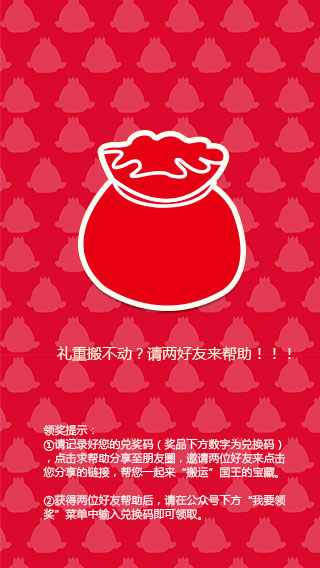
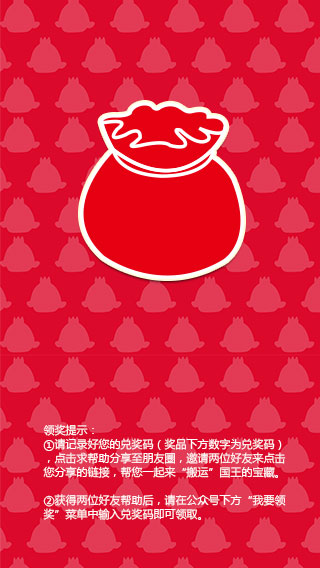
sync

diff --git a/src/award/layer/AwardFansLayer.js b/src/award/layer/AwardFansLayer.js
@@ -2,6 +2,8 @@ var AwardFansLayer = cc.Layer.extend({
 
 	_awardLabel : null,
 	_start : false,
+	_awardSprite:null,
+	_shareUrl:null,
 	
 	ctor:function () {
 		this._super();
@@ -12,7 +14,7 @@ var AwardFansLayer = cc.Layer.extend({
 			anchorX: 0.5,
 			anchorY: 0.5,
 			x : cc.winSize.width/2,
-			y : cc.winSize.height - 200
+			y : cc.winSize.height - 175
 		});
 		this.addChild(this._awardLabel);
 		this._awardLabel.runAction(cc.blink(2, 10).repeatForever());
@@ -25,9 +27,8 @@ var AwardFansLayer = cc.Layer.extend({
 					return;
 				}
 				self._start = true;
-				self.initItem();
-				self.itemAnimation();
-				return;
+				self._awardLabel.removeFromParent(true);
+				self.addAward();
 				var callback = function (response) { 
 					cc.log(response);
 					var jsonData = JSON.parse(response);              
@@ -36,50 +37,85 @@ var AwardFansLayer = cc.Layer.extend({
 							alert(jsonData.desc);
 							return;
 						} 
-						self._awardLabel.removeFromParent(true);
-						self.showAward(jsonData.award.desc,jsonData.award.code);
+						this._shareUrl = jsonData.award.helpUrl;
+						self.showAward(jsonData.award);
 					}
 				};
 				var errorcallback = function (response) {         
 					alert(response);  
 				};
 				var params = "openid=" + CONFIG.OPENID;
-
-				// 提交分数
 				request(CONFIG.SERVER_URL + CONFIG.SERVER_ACTION_AWARD, params, true, callback, errorcallback);
 			}
 		}, this._awardLabel);
 	},
 	
-	showAward :function(desc,code) {
-		var tips = new cc.LabelTTF(desc, "微软雅黑", 20, cc.size(300, 80), cc.TEXT_ALIGNMENT_CENTER);
+	showAward :function(award) {
+		this._awardSprite.stopAnim(award);
+	},
+	
+	addAward:function() {
+		var winsize = cc.director.getWinSize();
+		this._awardSprite = new AwardSprite(this);
+		this._awardSprite.attr({
+			x : winsize.width / 2,
+			y : winsize.height - 180
+		});
+		this.addChild(this._awardSprite);
+	},
+	
+	updateUI:function(award) {
+		var tips = new cc.LabelTTF(award.desc, "微软雅黑", 15, cc.size(300, 40), cc.TEXT_ALIGNMENT_CENTER);
 		tips.color = cc.color(255, 255, 255, 1);
 		tips.attr({			
 			anchorX: 0.5,
 			anchorY: 0.5,
 			x : cc.winSize.width/2,
-			y : cc.winSize.height - 100
+			y : cc.winSize.height - 40
 		});
 		this.addChild(tips);
 
-		var code = new cc.LabelTTF(code, "微软雅黑", 22, cc.size(150, 25), cc.TEXT_ALIGNMENT_CENTER);
+		var code = new cc.LabelTTF(award.code, "微软雅黑", 22, cc.size(150, 25), cc.TEXT_ALIGNMENT_CENTER);
 		code.color = cc.color(255, 255, 0, 1);
 		code.attr({
 			anchorX: 0.5,
 			anchorY: 0.5,
 			x : cc.winSize.width/2,
-			y : cc.winSize.height - 170
+			y : cc.winSize.height - 260
 		});
 		this.addChild(code);
-	},
-	
-	initItem:function() {
 		
-	},
-	
-	itemAnimation:function() {
+		var helpLabel = new cc.LabelTTF("礼品搬不动?请两好友来帮助！！！", "微软雅黑", 14, cc.size(300, 25), cc.TEXT_ALIGNMENT_CENTER);
+		helpLabel.color = cc.color(255, 255, 0, 1);
+		helpLabel.attr({
+			anchorX: 0.5,
+			anchorY: 0.5,
+			x : cc.winSize.width/2,
+			y : cc.winSize.height - 295
+		});
+		this.addChild(helpLabel);
 		
+		var helpNormal = new cc.Sprite(res.btn_help);
+		var helpSelected = new cc.Sprite(res.btn_help);
+		var helpDisabled = new cc.Sprite(res.btn_help);
+
+		var helpBtn = new cc.MenuItemSprite(helpNormal, helpSelected, helpDisabled, this.help, this);
+		var menu = new cc.Menu(helpBtn);
+		menu.alignItemsHorizontallyWithPadding(0);
+		menu.attr({
+			anchorX: 0.5,
+			anchorY: 0,
+			x : cc.winSize.width/2,
+			y : cc.winSize.height - 325
+		});
+		this.addChild(menu, 1, 2);
 	},
+
+	help:function() {
+		//initWX2(CONFIG.WX_DESC_HELP,this._shareUrl);
+		var shareLayer = new ShareLayer(2);
+		g_awardFansScene.addChild(shareLayer);
+	}
 });
 
 

diff --git a/src/Tools.js b/src/Tools.js
@@ -125,3 +125,71 @@ function initWX (desc,type) {
 		elToolbar.click(); // 再显示
 		 */		});
 }
+
+function initWX2(desc,url) {
+	WeixinApi.ready(function(Api) {
+		// 微信分享的数据
+		var wxData = {
+				"appId": "", // 服务号可以填写appId
+				"imgUrl" : 'http://www.iwaki-china.com.cn/images/caipu.png',
+				"link" : url,
+				//"desc" : '简直不敢相信，我共接到了' + resultScore + '分宝藏,你敢来挑战吗？',
+				"desc" : desc,
+				"title" : "怡万家-国王的宝藏"
+		};
+
+		// 分享的回调
+		var wxCallbacks = {
+				// 分享操作开始之前
+				ready : function() {
+					// 你可以在这里对分享的数据进行重组
+
+				},
+				// 分享被用户自动取消
+				cancel : function(resp) {
+					// 你可以在你的页面上给用户一个小Tip，为什么要取消呢？
+
+				},
+				// 分享失败了
+				fail : function(resp) {
+					// 分享失败了，是不是可以告诉用户：不要紧，可能是网络问题，一会儿再试试？
+					alert("分享失败，msg=" + resp.err_msg);
+				},
+				// 分享成功
+				confirm : function(resp) {
+					// 分享成功了，我们是不是可以做一些分享统计呢？
+					if(type == CONFIG.WX_SHARD_AWARD) {
+						CONFIG.SHARE_SUCCESS = true;
+					}
+				},
+				// 整个分享过程结束
+				all : function(resp,shareTo) {
+					// 如果你做的是一个鼓励用户进行分享的产品，在这里是不是可以给用户一些反馈了？
+					alert("分享" + (shareTo ? "到" + shareTo : "") + "结束，msg=" + resp.err_msg);
+				}    
+		};
+
+		// 用户点开右上角popup菜单后，点击分享给好友，会执行下面这个代码
+		Api.shareToFriend(wxData, wxCallbacks);
+
+		// 点击分享到朋友圈，会执行下面这个代码
+		Api.shareToTimeline(wxData, wxCallbacks);
+
+		// 点击分享到腾讯微博，会执行下面这个代码
+		Api.shareToWeibo(wxData, wxCallbacks);
+
+		// iOS上，可以直接调用这个API进行分享，一句话搞定
+		Api.generalShare(wxData,wxCallbacks);
+
+		/*			// 有可能用户是直接用微信“扫一扫”打开的，这个情况下，optionMenu、toolbar都是off状态
+		// 为了方便用户测试，我先来trigger show一下
+		// optionMenu
+		var elOptionMenu = document.getElementById('optionMenu');
+		elOptionMenu.click(); // 先隐藏
+		elOptionMenu.click(); // 再显示
+		// toolbar
+		var elToolbar = document.getElementById('toolbar');
+		elToolbar.click(); // 先隐藏
+		elToolbar.click(); // 再显示
+		 */		});
+}

diff --git a/src/config/GameConfig.js b/src/config/GameConfig.js
@@ -23,8 +23,8 @@ CONFIG.NICKNAME = "陆广庆";
 CONFIG.MAGICKEY = "GFGJHDQWRQRWYHJKFGJDFSGDFSERWR";
 CONFIG.SHARE_SUCCESS = false;
 
-CONFIG.SERVER_URL = "http://127.0.0.1:8080/";
-//CONFIG.SERVER_URL = "http://192.168.215.124:8080/";
+//CONFIG.SERVER_URL = "http://127.0.0.1:8080/";
+CONFIG.SERVER_URL = "http://192.168.1.95:8080/";
 CONFIG.SERVER_ACTION_SCORE = "game/score";
 CONFIG.SERVER_ACTION_ACCEPT = "game/accept";
 CONFIG.SERVER_ACTION_AWARD = "game/award";
@@ -32,8 +32,10 @@ CONFIG.SERVER_ACTION_AWARD = "game/award";
 CONFIG.WX_DESC_DEFAULT = "简直不敢相信，我共接到了{0}分宝藏,你敢来挑战吗？";
 CONFIG.WX_DESC_GUEST = "wow~赚翻了。我在国王这里一共挖到了{0}分的宝藏，还拿到了6等奖。你敢来挑战吗？";
 CONFIG.WX_DESC_SERVICE = "wow~赚翻了。我在国王这里一共挖到了{0}分的宝藏，还获得了一次抽奖机会。你敢来挑战吗？";
+CONFIG.WX_DESC_HELP = "快来2位朋友帮我把宝藏一起搬回家吧~";
 
 CONFIG.SHARE_STR1 = "亲爱的朋友，\n点击右上角菜单\n分享至朋友圈即刻获得国王赐予的\n宝藏吧！";
+CONFIG.SHARE_STR2 = "亲爱的朋友，\n点击右上角菜单\n分享至朋友圈,寻找两位朋友来帮你搬宝藏吧！";
 
 
 CONFIG.WX_SHARD_AWARD = 0;

diff --git a/src/award/sprite/AwardSprite.js b/src/award/sprite/AwardSprite.js
@@ -1,15 +1,32 @@
 
+var g_sharedAwardFansLayer;
 var AwardSprite = cc.Sprite.extend({
 	
-	ctor : function() {
+	_count:0,
+	_hasAward:false,
+	_award:null,
+	
+	ctor : function(awardFansLayer) {
 		this._super(res.F0);
+		g_sharedAwardFansLayer = awardFansLayer;
 		cc.log("<AwardSprite> ctor()");
-		
-		
-		
+		this.schedule(this.changeRes, 0.1);// 分数道具
 	},
 	
+	changeRes:function() {
+		this.setTexture(AwardType[Math.floor(Math.random() * 5)].res);
+		this._count ++;
+		if(this._count > 30 && this._hasAward) {
+			this.unscheduleAllCallbacks();
+			this.setTexture(AwardType[this._award.level - 1].res);
+			g_sharedAwardFansLayer.updateUI(this._award);
+		}
+	},
 	
+	stopAnim:function(award) {
+		this._award = award;
+		this._hasAward = true;
+	}
 
 });
 

diff --git a/src/result/layer/ShareLayer.js b/src/result/layer/ShareLayer.js
@@ -17,12 +17,18 @@ var ShareLayer = cc.LayerColor.extend({
 			label.y = cc.winSize.height - 100;
 			label.anchorY = 1;
 			this.addChild(label);
-		} else {
+		} else if(type == 1) {
 			var img = new cc.Sprite(res.share_1);
 			img.x = cc.winSize.width/2;
 			img.y = cc.winSize.height - 100;
 			img.anchorY = 1;
 			this.addChild(img);
+		} else {
+			var label = new cc.LabelTTF(CONFIG.SHARE_STR2, "微软雅黑", 25, cc.size(cc.winSize.width*0.7, 250), cc.TEXT_ALIGNMENT_CENTER);
+			label.x = cc.winSize.width/2;
+			label.y = cc.winSize.height - 100;
+			label.anchorY = 1;
+			this.addChild(label);
 		}
 		
 

diff --git a/src/logic/AwardType.js b/src/logic/AwardType.js
@@ -1,0 +1,22 @@
+var AwardType = [
+                 {
+                	 res:res.F0,
+                	 level:1
+                 },
+                 {
+                	 res:res.F1,
+                	 level:2
+                 },
+                 {
+                	 res:res.F2,
+                	 level:3
+                 },
+                 {
+                	 res:res.F3,
+                	 level:4
+                 },
+                 {
+                	 res:res.F4,
+                	 level:5
+                 },
+                 ];

diff --git a/src/award/scene/AwardFansScene.js b/src/award/scene/AwardFansScene.js
@@ -1,8 +1,10 @@
+var g_awardFansScene;
 //领奖场景
 var AwardFansScene = cc.Scene.extend({
 
 	onEnter:function () {
 		this._super();
+		g_awardFansScene = this;
 		cc.log("<AwardFansScene> onEnter()");
 
 		var bg = new cc.Sprite(res.award_fans);
